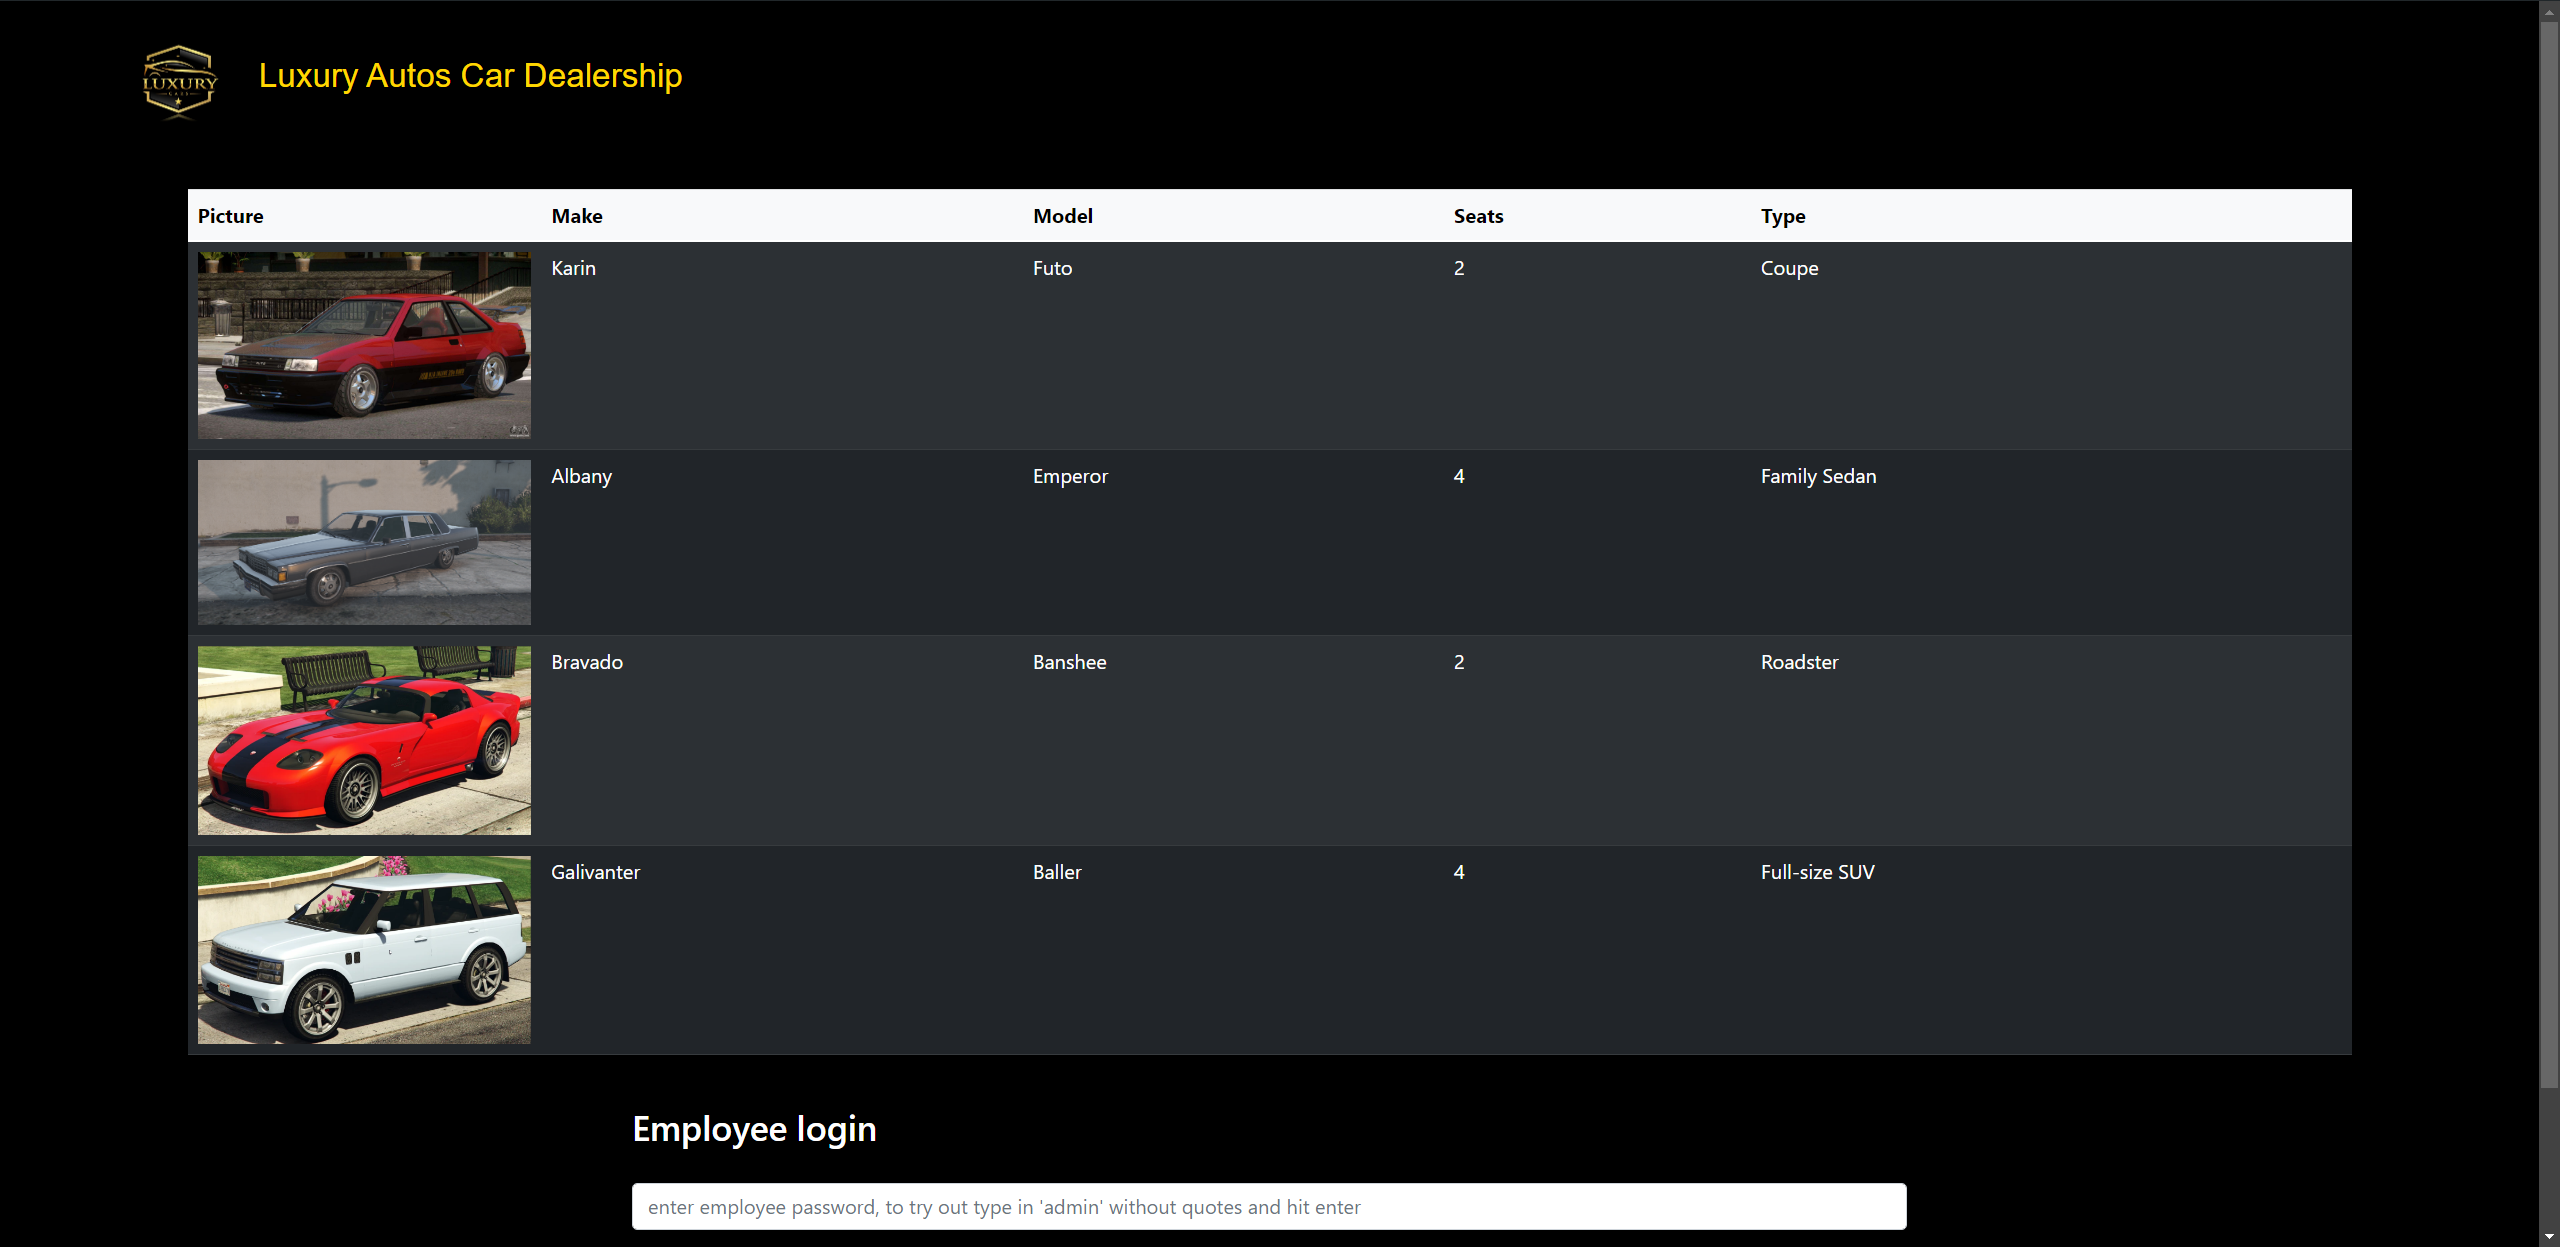
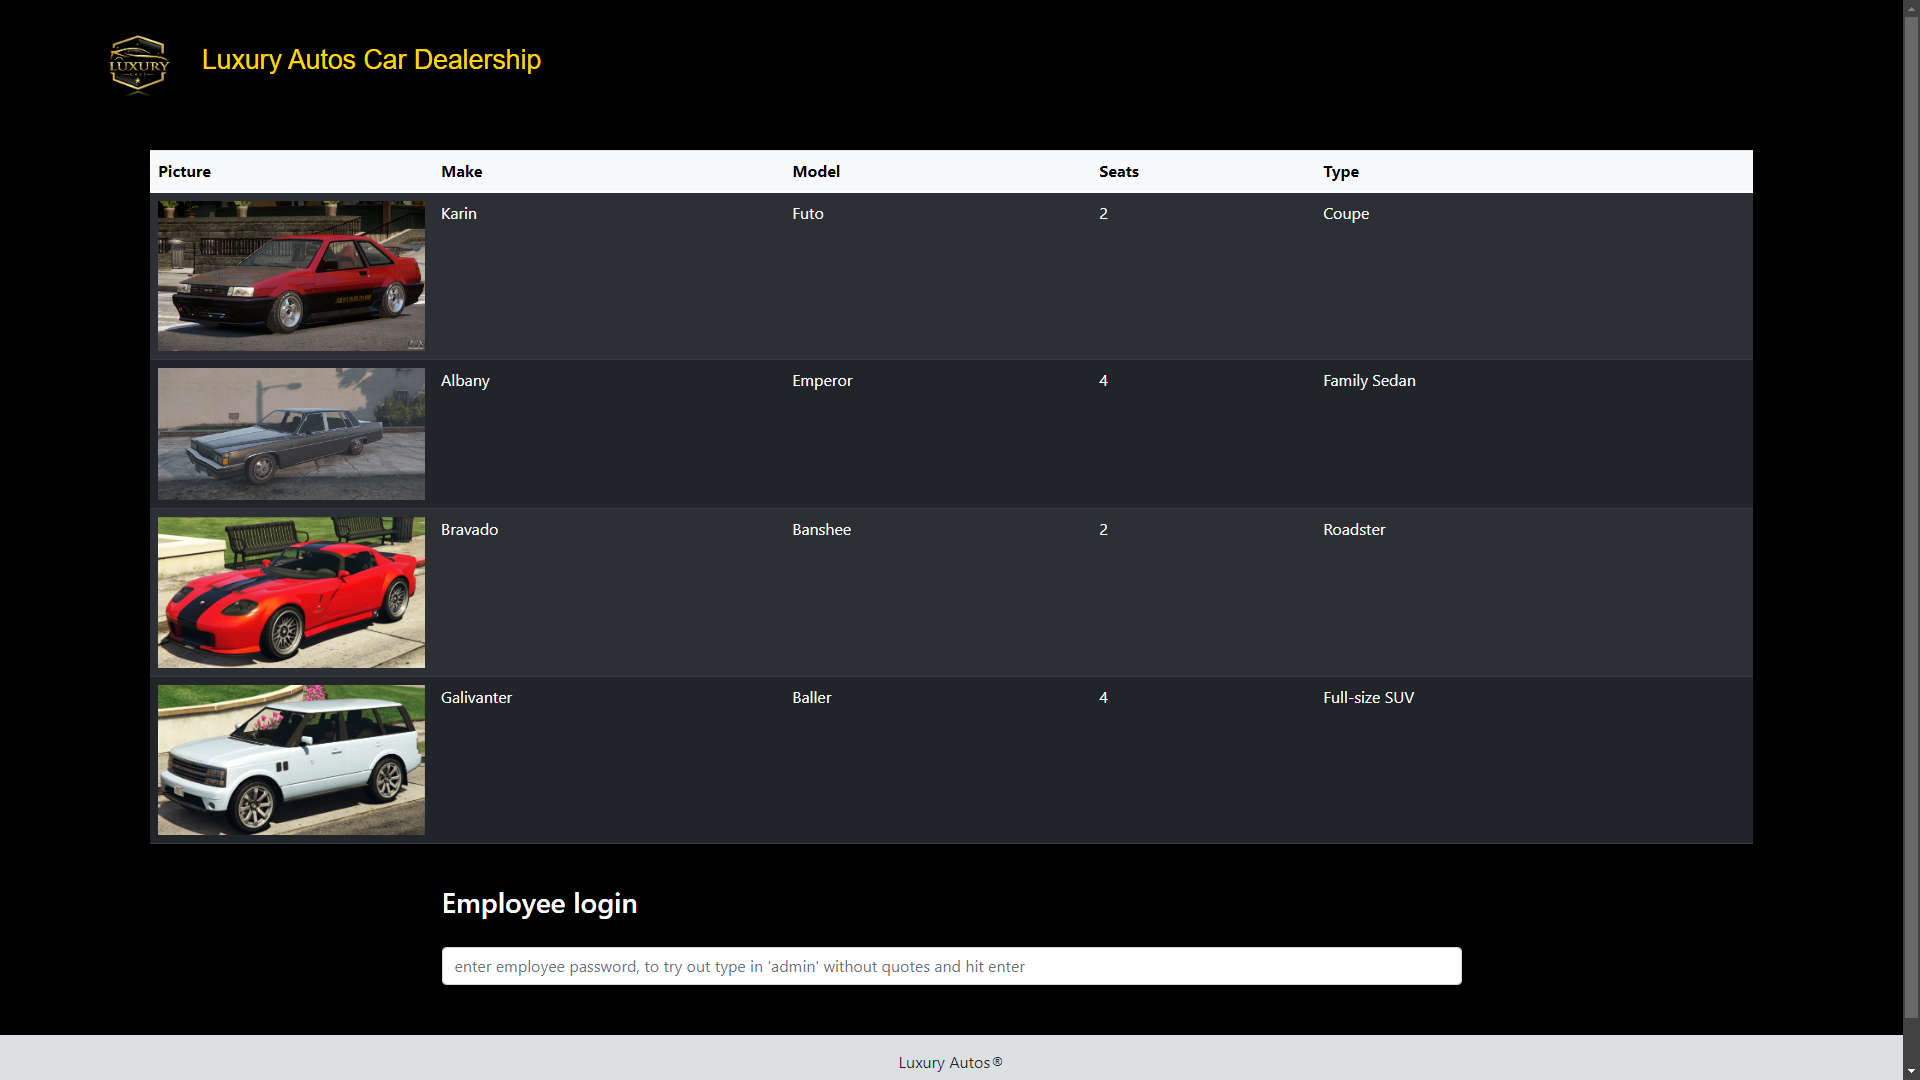
Added new project
Added Wordle Clone project

diff --git a/src/components/Projects/Projects.js b/src/components/Projects/Projects.js
@@ -3,11 +3,22 @@ import tmPic from '../../pictures/task-manager.png'
 import laPic from '../../pictures/luxury-autos.png'
 import ctPic from '../../pictures/chess-tracker.png'
 import mPPic from '../../pictures/minecraft-pizza.png'
+import wCPic from '../../pictures/wordle-clone.png'
 export default function Projects(){
     return(
         <section style={{justifyContent: "space-around"}}>
             <h1>Projects i've worked on</h1>
             <div className='container-row'>
+                <div className='item'>
+                    <h2>Wordle Clone</h2>
+                    <img src={wCPic}alt="Wordle Clone"/>
+                </div>
+                <div className='item'>
+                    <h2>Car Dealership Catalog</h2>
+                    <img src={laPic} alt="Car Dealership Catalog"/>
+                    <a className='link' href='https://cardealer-frontend.onrender.com/' style={{display: 'block'}}>Deployed HERE *CLICK ME*</a>
+                    
+                </div>
                 <div className='item'>
                     <h2>Chess Game Tracker</h2>
                     <img src={ctPic} alt="Chess Game Tracker"/>
@@ -19,12 +30,6 @@ export default function Projects(){
                     <h2>Task Manager</h2>
                     <img src={tmPic} alt="Task Manager"/>
                     <a className='link' href='https://taskmanager-frontend-8dip.onrender.com/' style={{display: 'block'}}>Deployed HERE *CLICK ME*</a>
-                    
-                </div>
-                <div className='item'>
-                    <h2>Car Dealership Catalog</h2>
-                    <img src={laPic} alt="Car Dealership Catalog"/>
-                    <a className='link' href='https://cardealer-frontend.onrender.com/' style={{display: 'block'}}>Deployed HERE *CLICK ME*</a>
                     
                 </div>
                 <div className='item'>

diff --git a/src/App.css b/src/App.css
@@ -6,6 +6,10 @@ html {
   scroll-snap-type: y mandatory;
 }
 
+h2 {
+ font-size: larger;
+}
+
 section {
   scroll-snap-align: start;
   scroll-snap-stop: always;
@@ -50,7 +54,7 @@ button{
 .container-row{
   
   display: flex;
-  
+  align-items: flex-start;
 }
 
 .container-col{
